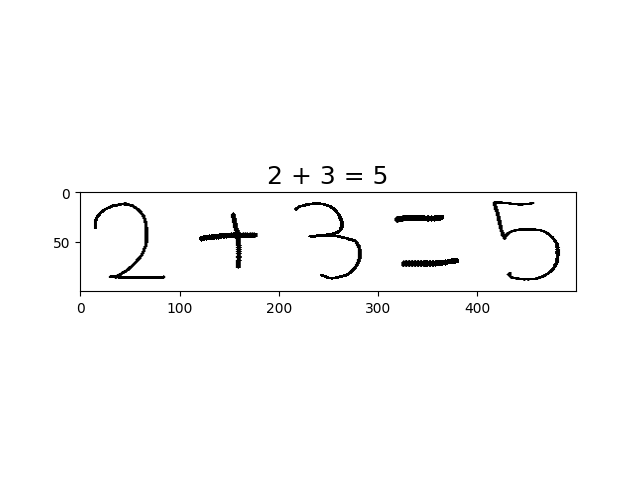
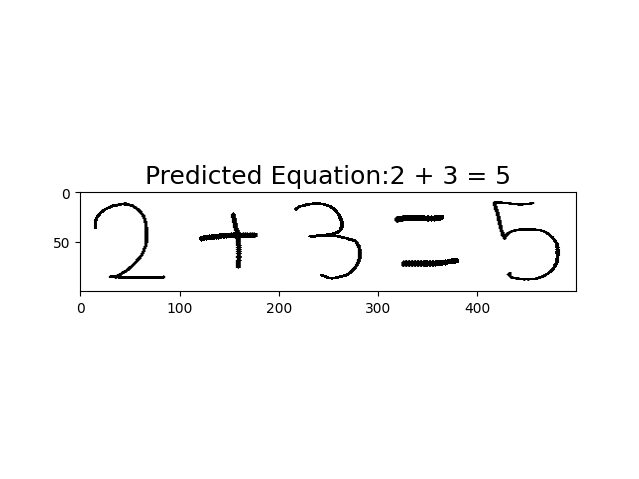
prediction result image updated

Changed region(s): [[0.2081, 0.3507, 0.8028, 0.4092]]

diff --git a/MathVisual/main.py b/MathVisual/main.py
@@ -50,7 +50,7 @@ def plot_equation(results_dict, final_equation:str):
         idx_first = idx_first + 100
         idx_last = idx_last + 100
     # Plot equation
-    plt.title(final_equation,fontsize = 18)
+    plt.title("Predicted Equation:{0}".format(final_equation),fontsize = 18)
     plt.imshow(image_one_big)
     plt.show()
 
